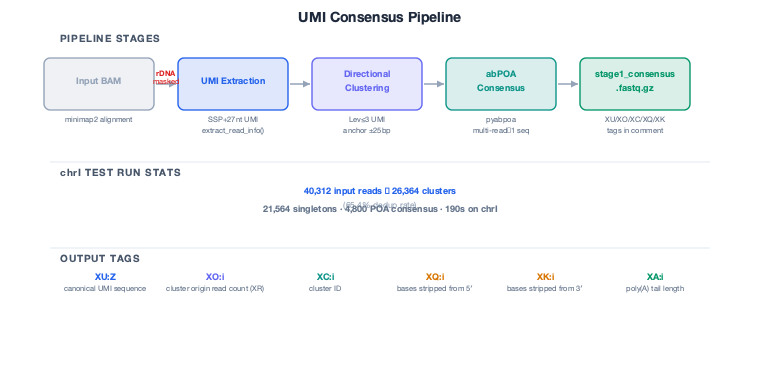
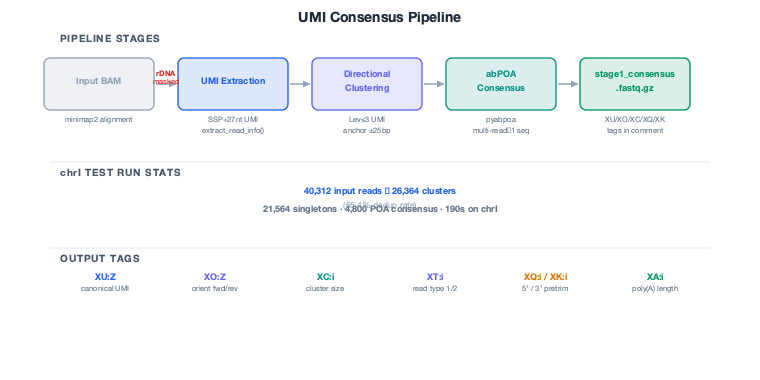
docs(cdna): wire 4 cDNA figures into README + fix figure content
README:
  - Add `### ONT PCR-cDNA Pipeline (PCB114.24)` under How It Works,
    walking through correct-cdna → align → cdna-analyze with the
    cdna_pipeline_overview, cdna_umi_architecture, cdna_poa_consensus,
    and cdna_isoform_clustering figures.
  - Add `correct-cdna` + `cdna-analyze` to the Quick Start code block,
    the Commands table, and the collapsed Usage examples.
  - Update Supported Technologies to call out Nanopore PCR-cDNA
    (SQK-PCB114.24, UMI-aware).
  - Document the tag namespace split: X[upper] for upstream / user-visible
    metadata, X[lower] for rectify-align consensus-selection bookkeeping.

Figures:
  - New cdna_pipeline_overview: top-level 3-stage diagram with input/output
    labels and the tag-namespace note. Bridges the gap between the existing
    detail figures and the README narrative.
  - cdna_umi_architecture: fix read_subtype labels (XY:Z=1a/1b/2 →
    umi_captured_fwd/rev/not_captured per the locked-in naming), drop the
    obsolete "XC:i by position" annotation on Type-2, surface XT:i:1/2.
  - cdna_poa_consensus: fix tag-table content (XO is Z-string orient
    not "cluster origin read count"; XC is cluster size not "cluster ID";
    add XT:i for read type 1/2; relabel XQ:i / XK:i as "5'/3' pretrim").

diff --git a/generate_cdna_figures.py b/generate_cdna_figures.py
@@ -1,13 +1,14 @@
 #!/usr/bin/env python3
 """
-Generate 5 SVG + PNG figures for RECTIFY cDNA documentation.
+Generate SVG + PNG figures for RECTIFY cDNA documentation.
 
 Figures generated:
-  1. cdna_umi_architecture  — PCB114.24 read structure, pipeline, subtypes
-  2. cdna_poa_consensus     — UMI consensus pipeline flow with stats
-  3. cdna_isoform_clustering — isoform grouping by (pos5, pos3) + T1/T2 reconciliation
-  4. walkback_readvsref     — read-vs-reference walkback algorithm (correct algorithm + bug note)
-  5. splice_classification  — GT-AG / AT-AC / non-canonical + chimeric voting
+  1. cdna_pipeline_overview — 3-stage workflow (correct-cdna → align → cdna-analyze)
+  2. cdna_umi_architecture  — PCB114.24 read structure, pipeline, subtypes
+  3. cdna_poa_consensus     — UMI consensus pipeline flow with stats
+  4. cdna_isoform_clustering — isoform grouping by (pos5, pos3) + T1/T2 reconciliation
+  5. walkback_readvsref     — read-vs-reference walkback algorithm (correct algorithm + bug note)
+  6. splice_classification  — GT-AG / AT-AC / non-canonical + chimeric voting
 
 Run from /Users/kevinroy/work/rectify/:
     python3 generate_cdna_figures.py
@@ -267,39 +268,39 @@ def fig_cdna_umi_architecture():
     L.append(section_head("READ SUBTYPES", y_sec3))
 
     BH_ST = 22
-    COL_W = 200
-    GAP   = 18
-    COL_X = [58, 58 + COL_W + GAP, 58 + 2*(COL_W + GAP)]
+    COL_W = 220
+    GAP   = 12
+    COL_X = [40, 40 + COL_W + GAP, 40 + 2*(COL_W + GAP)]
     y_st  = y_sec3 + 16
 
-    # Subtype 1a: SSP at 5'
+    # umi_captured_fwd: SSP at 5'
     x = COL_X[0]
     L.append(filled_block(x, y_st, 44, BH_ST, "SSP", PAL["exon"]))
     L.append(filled_block(x+44, y_st, 50, BH_ST, "UMI", PAL["blue"]))
     L.append(outline_block(x+94, y_st, 106, BH_ST, "cDNA", PAL["exon"]))
-    L.append(f'<text fill="{PAL["heading"]}" font-size="9" font-weight="bold" x="{x}" y="{y_st + BH_ST + 14}">Subtype 1a (fwd)</text>')
-    L.append(f'<text fill="{PAL["label"]}" font-size="8" x="{x}" y="{y_st + BH_ST + 26}">SSP at 5′</text>')
-    L.append(f'<text fill="{PAL["blue"]}" font-size="8" x="{x}" y="{y_st + BH_ST + 37}">XY:Z=1a</text>')
+    L.append(f'<text fill="{PAL["heading"]}" font-size="9" font-weight="bold" x="{x}" y="{y_st + BH_ST + 14}">UMI captured (fwd)</text>')
+    L.append(f'<text fill="{PAL["label"]}" font-size="8" x="{x}" y="{y_st + BH_ST + 26}">SSP+UMI at basecalled-5′  ·  XT:i:1</text>')
+    L.append(f'<text fill="{PAL["blue"]}" font-size="8" x="{x}" y="{y_st + BH_ST + 37}">XY:Z=umi_captured_fwd</text>')
 
-    # Subtype 1b: SSP at 3' (reversed read)
+    # umi_captured_rev: SSP at 3' (reversed read)
     x = COL_X[1]
     L.append(outline_block(x, y_st, 106, BH_ST, "cDNA", PAL["exon"]))
     L.append(filled_block(x+106, y_st, 50, BH_ST, "UMI", PAL["blue"]))
     L.append(filled_block(x+156, y_st, 44, BH_ST, "SSP", PAL["exon"]))
-    L.append(f'<text fill="{PAL["heading"]}" font-size="9" font-weight="bold" x="{x}" y="{y_st + BH_ST + 14}">Subtype 1b (rev)</text>')
-    L.append(f'<text fill="{PAL["label"]}" font-size="8" x="{x}" y="{y_st + BH_ST + 26}">SSP at 3′ (reversed read)</text>')
-    L.append(f'<text fill="{PAL["blue"]}" font-size="8" x="{x}" y="{y_st + BH_ST + 37}">XY:Z=1b</text>')
+    L.append(f'<text fill="{PAL["heading"]}" font-size="9" font-weight="bold" x="{x}" y="{y_st + BH_ST + 14}">UMI captured (rev)</text>')
+    L.append(f'<text fill="{PAL["label"]}" font-size="8" x="{x}" y="{y_st + BH_ST + 26}">SSP_RC near basecalled-3′  ·  XT:i:1</text>')
+    L.append(f'<text fill="{PAL["blue"]}" font-size="8" x="{x}" y="{y_st + BH_ST + 37}">XY:Z=umi_captured_rev</text>')
 
-    # Subtype 2: no SSP
+    # umi_not_captured: no SSP
     x = COL_X[2]
     L.append(f'<rect x="{x}" y="{y_st}" width="44" height="{BH_ST}" rx="4" '
              f'fill="{PAL["muted"]}" opacity="0.25"/>')
     L.append(f'<text fill="{PAL["muted"]}" font-size="8" font-style="italic" '
              f'text-anchor="middle" x="{x+22}" y="{y_st + BH_ST//2 + 4}">5′ trunc</text>')
     L.append(outline_block(x+44, y_st, 156, BH_ST, "cDNA (partial)", PAL["exon"]))
-    L.append(f'<text fill="{PAL["heading"]}" font-size="9" font-weight="bold" x="{x}" y="{y_st + BH_ST + 14}">Subtype 2 (no SSP)</text>')
-    L.append(f'<text fill="{PAL["label"]}" font-size="8" x="{x}" y="{y_st + BH_ST + 26}">Truncated 5′-end</text>')
-    L.append(f'<text fill="{PAL["orange"]}" font-size="8" x="{x}" y="{y_st + BH_ST + 37}">XY:Z=2  XC:i by position</text>')
+    L.append(f'<text fill="{PAL["heading"]}" font-size="9" font-weight="bold" x="{x}" y="{y_st + BH_ST + 14}">UMI not captured</text>')
+    L.append(f'<text fill="{PAL["label"]}" font-size="8" x="{x}" y="{y_st + BH_ST + 26}">5′-truncated before SSP  ·  XT:i:2</text>')
+    L.append(f'<text fill="{PAL["orange"]}" font-size="8" x="{x}" y="{y_st + BH_ST + 37}">XY:Z=umi_not_captured</text>')
 
     L.append(svg_close())
     return "\n".join(L)
@@ -403,12 +404,12 @@ def fig_cdna_poa_consensus():
     L.append(section_head("OUTPUT TAGS", y_t))
 
     tag_defs = [
-        ("XU:Z", "canonical UMI sequence",           PAL["blue"]),
-        ("XO:i", "cluster origin read count (XR)",   PAL["exon"]),
-        ("XC:i", "cluster ID",                       PAL["teal"]),
-        ("XQ:i", "bases stripped from 5′",       PAL["orange"]),
-        ("XK:i", "bases stripped from 3′",       PAL["orange"]),
-        ("XA:i", "poly(A) tail length",              PAL["green"]),
+        ("XU:Z", "canonical UMI",            PAL["blue"]),
+        ("XO:Z", "orient fwd/rev",           PAL["exon"]),
+        ("XC:i", "cluster size",             PAL["teal"]),
+        ("XT:i", "read type 1/2",            PAL["exon"]),
+        ("XQ:i / XK:i", "5′ / 3′ pretrim",   PAL["orange"]),
+        ("XA:i", "poly(A) length",           PAL["green"]),
     ]
     TW = 110
     tx0 = (FIG_W - len(tag_defs) * TW) / 2
@@ -785,11 +786,118 @@ def fig_splice_classification():
 
 
 # ═══════════════════════════════════════════════════════════════════════
+# Figure: cdna_pipeline_overview (760 × 300)
+#   Top-level 3-stage view of the ONT PCR-cDNA workflow:
+#     correct-cdna  →  rectify align  →  cdna-analyze
+# ═══════════════════════════════════════════════════════════════════════
+
+def fig_cdna_pipeline_overview():
+    H = 300
+    L = []
+    L.append(svg_open(H))
+    L.append(fig_title("ONT PCR-cDNA Pipeline (PCB114.24)"))
+
+    # Three stage boxes
+    STAGES = [
+        dict(
+            name="rectify correct-cdna",
+            color=PAL["blue"],
+            sub=("UMI extraction · directional clustering",
+                 "abPOA consensus · pre-trim"),
+            input="pre-aligned BAM",
+            output="stage1_consensus.fastq.gz",
+            tags="XU · XO · XC · XR · XM · XF · XA · XT · XY · XQ · XK · XB",
+        ),
+        dict(
+            name="rectify align",
+            color=PAL["teal"],
+            sub=("minimap2 + mapPacBio + gapmm2",
+                 "chimeric consensus selection"),
+            input="per-cluster FASTQ",
+            output="{prefix}.rectified.bam",
+            tags="X[upper] tags pass through via minimap2 -y",
+        ),
+        dict(
+            name="rectify cdna-analyze",
+            color=PAL["green"],
+            sub=("walkback (XA) · TSS walk-forward",
+                 "isoform clustering (XI) · T1↔T2 (XL)"),
+            input="post-align BAM",
+            output="clusters.tsv · isoforms.tsv · t1t2_pairs.tsv · consensus_tagged.bam",
+            tags="+ XG (gene) · XS (sense/antisense) · XI · XL",
+        ),
+    ]
+
+    BX_W = 210
+    BX_H = 64
+    GAP_X = 12
+    X0 = (FIG_W - 3 * BX_W - 2 * GAP_X) // 2
+    BX_Y = 52
+
+    for i, st in enumerate(STAGES):
+        bx = X0 + i * (BX_W + GAP_X)
+        # Box
+        L.append(f'<rect x="{bx}" y="{BX_Y}" width="{BX_W}" height="{BX_H}" rx="8" '
+                 f'fill="{st["color"]}" opacity="0.13"/>')
+        L.append(f'<rect x="{bx}" y="{BX_Y}" width="{BX_W}" height="{BX_H}" rx="8" '
+                 f'fill="none" stroke="{st["color"]}" stroke-width="1.6"/>')
+        # Title
+        L.append(f'<text fill="{st["color"]}" font-size="11" font-weight="700" '
+                 f'text-anchor="middle" x="{bx + BX_W//2}" y="{BX_Y + 18}">'
+                 f'{st["name"]}</text>')
+        # Sub-lines
+        for j, sub in enumerate(st["sub"]):
+            L.append(f'<text fill="{PAL["heading"]}" font-size="8.5" '
+                     f'text-anchor="middle" x="{bx + BX_W//2}" '
+                     f'y="{BX_Y + 36 + j * 12}">{sub}</text>')
+
+        # Input label above
+        L.append(f'<text fill="{PAL["muted"]}" font-size="8" font-style="italic" '
+                 f'text-anchor="middle" x="{bx + BX_W//2}" y="{BX_Y - 6}">'
+                 f'in: {st["input"]}</text>')
+
+        # Output label below
+        L.append(f'<text fill="{st["color"]}" font-size="8.5" font-weight="600" '
+                 f'text-anchor="middle" x="{bx + BX_W//2}" '
+                 f'y="{BX_Y + BX_H + 14}">{st["output"]}</text>')
+
+        # Tag list (smaller, muted)
+        L.append(f'<text fill="{PAL["label"]}" font-size="7" '
+                 f'text-anchor="middle" x="{bx + BX_W//2}" '
+                 f'y="{BX_Y + BX_H + 28}">{st["tags"]}</text>')
+
+        # Arrow to next stage
+        if i < len(STAGES) - 1:
+            ax1 = bx + BX_W + 1
+            ax2 = X0 + (i + 1) * (BX_W + GAP_X) - 1
+            ay = BX_Y + BX_H // 2
+            L.append(h_arrow(ax1, ax2, ay, PAL["muted"]))
+
+    # Bottom: namespace note
+    y_note = BX_Y + BX_H + 72
+    L.append(hdivider(y_note))
+    L.append(f'<text fill="{PAL["heading"]}" font-size="9" font-weight="700" '
+             f'text-anchor="middle" x="{FIG_W//2}" y="{y_note + 18}">'
+             f'Tag namespace</text>')
+    L.append(f'<text fill="{PAL["label"]}" font-size="8.5" '
+             f'text-anchor="middle" x="{FIG_W//2}" y="{y_note + 34}">'
+             f'X[upper] = upstream / user-visible metadata  ·  '
+             f'X[lower] = rectify align internal aligner-selection bookkeeping (Xa, Xc, Xn, Xj, Xv, Xz, Xg, Xm, Xq, Xw, Xy)</text>')
+    L.append(f'<text fill="{PAL["muted"]}" font-size="8" font-style="italic" '
+             f'text-anchor="middle" x="{FIG_W//2}" y="{y_note + 48}">'
+             f'FASTQ comment tags are TAB-separated so minimap2 -y emits each as a separate BAM aux field.</text>')
+
+    L.append(svg_close())
+    return "\n".join(L)
+
+
+# ═══════════════════════════════════════════════════════════════════════
 # Main
 # ═══════════════════════════════════════════════════════════════════════
 
 if __name__ == "__main__":
     figures = {
+        "cdna_pipeline_overview":  fig_cdna_pipeline_overview,
         "cdna_umi_architecture":   fig_cdna_umi_architecture,
         "cdna_poa_consensus":      fig_cdna_poa_consensus,
         "cdna_isoform_clustering": fig_cdna_isoform_clustering,
@@ -812,4 +920,4 @@ if __name__ == "__main__":
         png_kb = png_path.stat().st_size // 1024
         print(f"  {name}: SVG {svg_kb}KB  PNG {png_kb}KB")
 
-    print(f"\nDone — 5 SVG + 5 PNG written to {OUTDIR}")
+    print(f"\nDone — {len(figures)} SVG + {len(figures)} PNG written to {OUTDIR}")

diff --git a/README.md b/README.md
@@ -30,6 +30,11 @@ rectify run-all --manifest samples.tsv --genome genome.fa --annotation genes.gtf
 
 # dT-primed cDNA-seq (QuantSeq, etc. — poly(A) is NOT in the read)
 rectify correct reads.bam --genome genome.fa --dT-primed-cDNA -o corrected.tsv
+
+# ONT PCR-cDNA (PCB114.24 chemistry) — UMI-aware 3-stage pipeline
+rectify correct-cdna  pcb114.bam --reference genome.fa -o out/    # Stage 1: per-cluster FASTQ
+rectify align         out/stage1_consensus.fastq.gz --genome genome.fa -o out/
+rectify cdna-analyze  out/stage1.rectified.bam --reference genome.fa --gff genes.gff -o out/
 ```
 
 ---
@@ -119,6 +124,44 @@ After correction, RECTIFY groups nearby CPA sites into clusters using a valley-b
 | **Gene** | Total expression changes | HSP82 is 2-fold down in heat shock |
 | **Cluster** | CPA site usage changes | FAS1 shifts from distal to proximal site |
 
+### ONT PCR-cDNA Pipeline (PCB114.24)
+
+For Oxford Nanopore PCR-cDNA libraries built with the SQK-PCB114.24 chemistry, RECTIFY runs a three-stage UMI-aware pipeline that deduplicates per molecule before correction, then assigns isoforms on post-alignment coordinates.
+
+<p align="center">
+  <img src="docs/figures/cdna_pipeline_overview.png" alt="ONT PCR-cDNA pipeline overview" width="720">
+</p>
+
+**Stage 1 — `rectify correct-cdna`.** PCB114.24 places a 27-nt structured UMI (pattern `(TT-VVVV)×4 + TTT`, V ∈ {A,C,G}) between the SSP and a GGG template-switching bridge at the basecalled 5′ end. Stage 1 extracts the UMI from each read in a pre-aligned BAM, clusters reads by (3′ anchor, UMI similarity) using directional clustering with a 2× count rule (avoids the chain-merge failure mode of connected components on hot poly-A loci), builds an abPOA consensus per multi-read cluster, and strips SSP/UMI/GGG at 5′ + poly(A) at 3′ so the downstream aligner receives clean mRNA. Output is one `stage1_consensus.fastq.gz` record per UMI cluster, with alignment-independent per-cluster tags on a TAB-separated FASTQ comment.
+
+<p align="center">
+  <img src="docs/figures/cdna_umi_architecture.png" alt="PCB114.24 read architecture" width="720">
+</p>
+
+<p align="center">
+  <img src="docs/figures/cdna_poa_consensus.png" alt="UMI consensus pipeline" width="720">
+</p>
+
+Reads are typed by where the UMI landed:
+
+| `XY:Z`              | `XT:i` | When                                                                  | Deduplication                            |
+|:--------------------|:-------|:----------------------------------------------------------------------|:-----------------------------------------|
+| `umi_captured_fwd`  | 1      | SSP+UMI at basecalled-5′ (full-length molecule)                       | UMI-anchored                             |
+| `umi_captured_rev`  | 1      | SSP_RC+UMI_RC at basecalled-3′ (pA-first read traveled far enough)    | UMI-anchored                             |
+| `umi_not_captured`  | 2      | pA-first read truncated before reaching SSP/UMI                       | Not merged — each read is one observation |
+
+**Stage 2 — `rectify align`.** The per-cluster FASTQ goes through the standard multi-aligner consensus path (minimap2 + mapPacBio + gapmm2 + optional chimeric reconstruction). Per-cluster tags ride through via `minimap2 -y`; the FASTQ writer uses TAB-separated comments so each `XX:T:value` becomes its own BAM aux field rather than collapsing into the first tag's Z-string.
+
+**Stage 3 — `rectify cdna-analyze`.** On post-alignment coordinates (more accurate than pre-align for tol-5 = 5 / tol-3 = 5 grouping), Stage 3 recomputes corrected poly(A) length and TSS via read-vs-reference walkback/walk-forward, assigns genes + sense/antisense, groups Stage-1 clusters into isoforms (Type-1 uses 5′+3′ positions; Type-2 uses 3′ only — the 5′ end is random truncation noise), and links same-molecule Type-1 ↔ Type-2 cluster pairs at the same gene+orient with `|Δ5′| ≤ 5 ∧ |Δ3′| ≤ 5`.
+
+<p align="center">
+  <img src="docs/figures/cdna_isoform_clustering.png" alt="Isoform clustering and T1↔T2 reconciliation" width="720">
+</p>
+
+Outputs: `clusters.tsv` (per-cluster manifest), `isoforms.tsv` (isoform-level aggregation), `t1t2_pairs.tsv` (same-molecule pairings), and `consensus_tagged.bam` (input BAM rewritten with the new XA/XG/XS/XI/XL tags for downstream consumers that prefer SAM-tag access).
+
+> **Tag namespace.** The cDNA pipeline owns the `X[upper]` tag namespace (`XU`/`XO`/`XC`/`XR`/`XA`/`XF`/`XT`/`XY`/`XQ`/`XK`/`XB`/`XS`/`XG`/`XI`/`XL`). `rectify align`'s internal aligner-selection bookkeeping uses `X[lower]` (`Xa`/`Xc`/`Xn`/`Xj`/`Xv`/`Xz`/`Xg`/`Xm`/`Xq`/`Xw`/`Xy`) — these are debug metadata, not stable for downstream consumers.
+
 ---
 
 ## NET-seq Refinement
@@ -197,6 +240,8 @@ conda install -c conda-forge -c bioconda rectify-rna
 | `rectify aggregate` | Aggregate reads into 3' end, 5' end, and junction datasets |
 | `rectify netseq` | Resolve CPA site ambiguity within A-tracts using NET-seq nascent RNA data |
 | `rectify trim-polya` | Pre-trim poly(A) tail and adapter from Dorado DRS BAMs (Step 0) |
+| `rectify correct-cdna` | ONT PCR-cDNA Stage 1 — UMI extraction, directional clustering, abPOA consensus, pre-trim → per-cluster FASTQ |
+| `rectify cdna-analyze` | ONT PCR-cDNA Stage 3 — post-align walkback + gene/isoform/T1↔T2 on the `rectify align` output |
 | `rectify tag-polya` | Annotate BAM reads with poly(A) model scores (pt_tag, polya_score, polya_source) |
 | `rectify validate` | Validate corrected 3' ends against NET-seq or known CPA sites |
 | `rectify restore-softclip` | Restore poly(A) tail as soft-clips after correction (Step 4, DRS only) |
@@ -215,6 +260,11 @@ rectify correct reads.fastq.gz --organism yeast -o corrected.tsv
 
 # Correct 3' ends — dT-primed cDNA-seq (QuantSeq, etc.)
 rectify correct reads.bam --genome genome.fa --dT-primed-cDNA -o corrected.tsv
+
+# ONT PCR-cDNA (PCB114.24) — 3-stage UMI-aware pipeline
+rectify correct-cdna  pcb114.bam --reference genome.fa -o out/
+rectify align         out/stage1_consensus.fastq.gz --genome genome.fa --prefix stage1 -o out/
+rectify cdna-analyze  out/stage1.rectified.bam --reference genome.fa --gff genes.gff -o out/
 
 # Correct with custom genome and NET-seq for A-tract resolution
 rectify correct reads.bam --genome genome.fa --netseq-dir my_netseq/ -o corrected.tsv
@@ -241,7 +291,7 @@ rectify export corrected.tsv -o tracks/ --genome genome.fa
 
 ## Supported Technologies
 
-Nanopore direct RNA-seq · QuantSeq (oligo-dT short-read) · PacBio Iso-Seq · NET-seq · Any poly(A)-tailed RNA-seq
+Nanopore direct RNA-seq · Nanopore PCR-cDNA (SQK-PCB114.24, UMI-aware) · QuantSeq (oligo-dT short-read) · PacBio Iso-Seq · NET-seq · Any poly(A)-tailed RNA-seq
 
 ---
 
